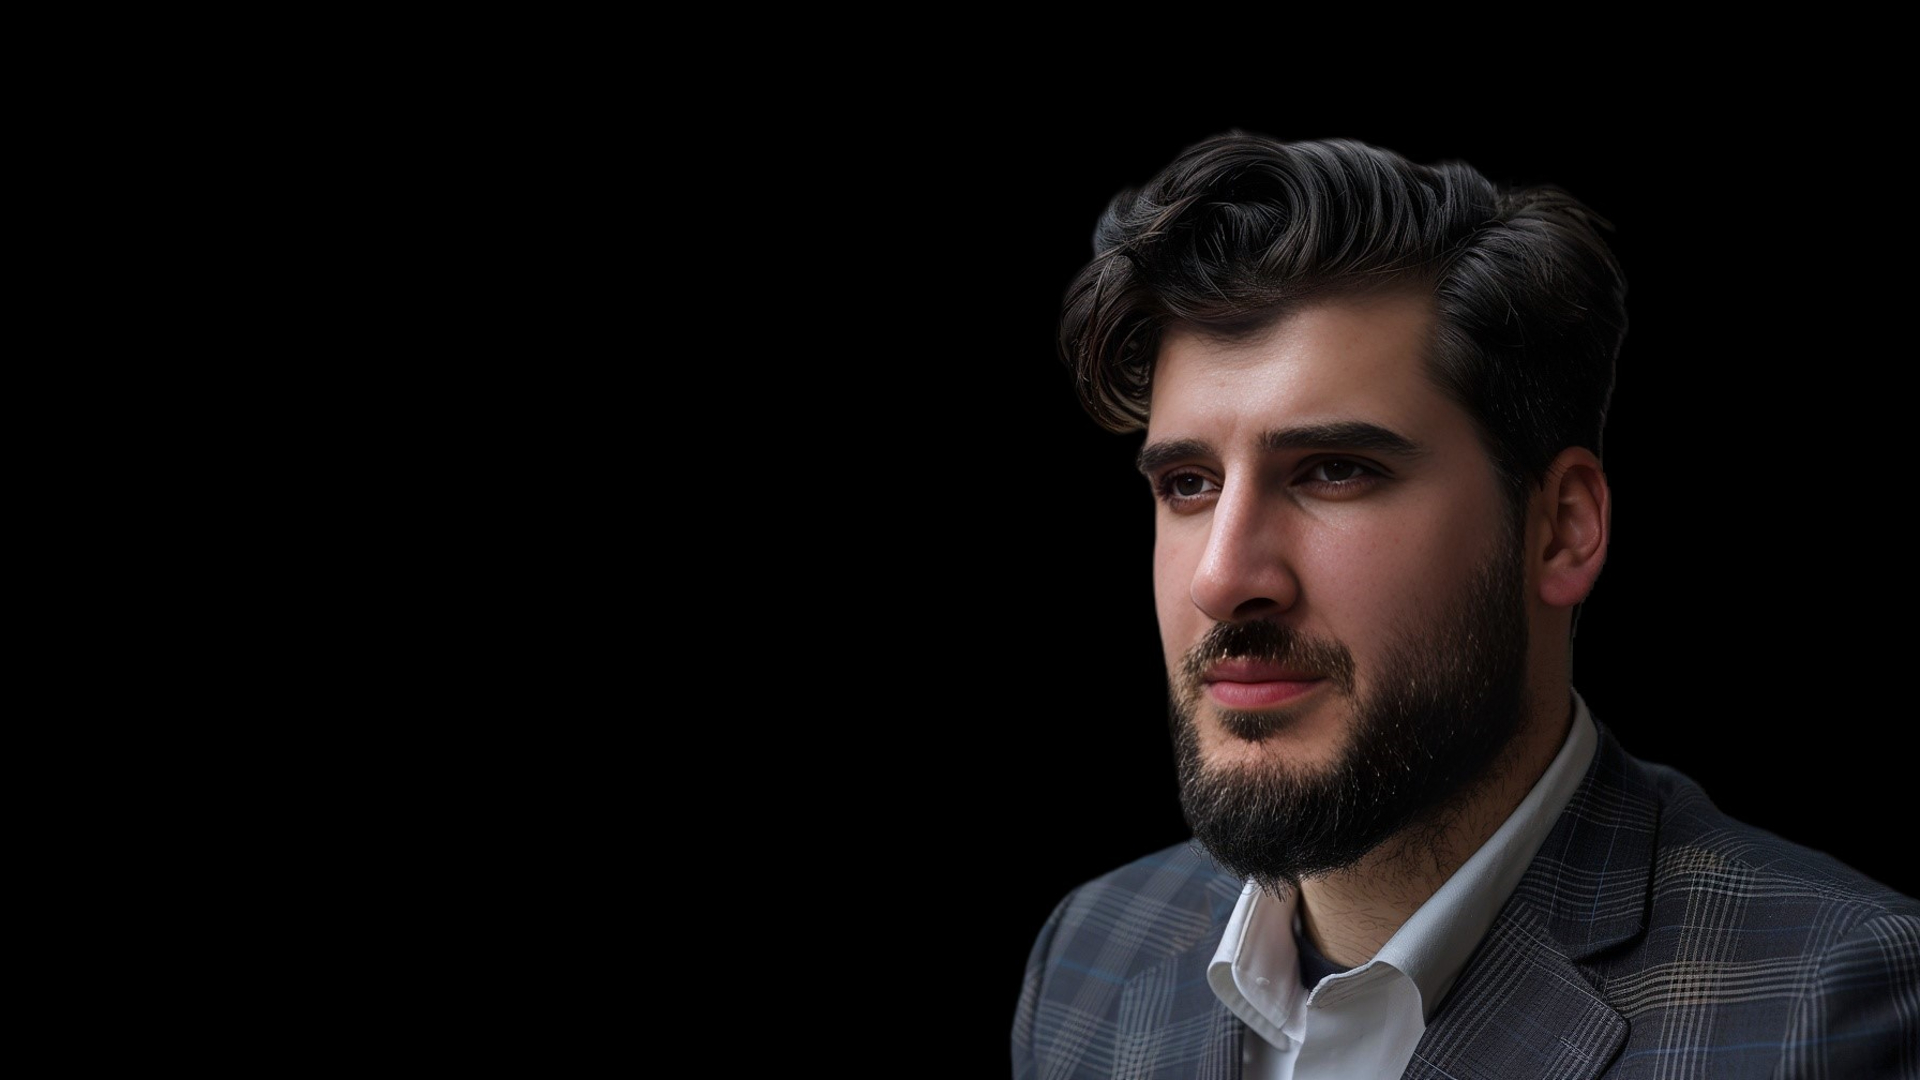
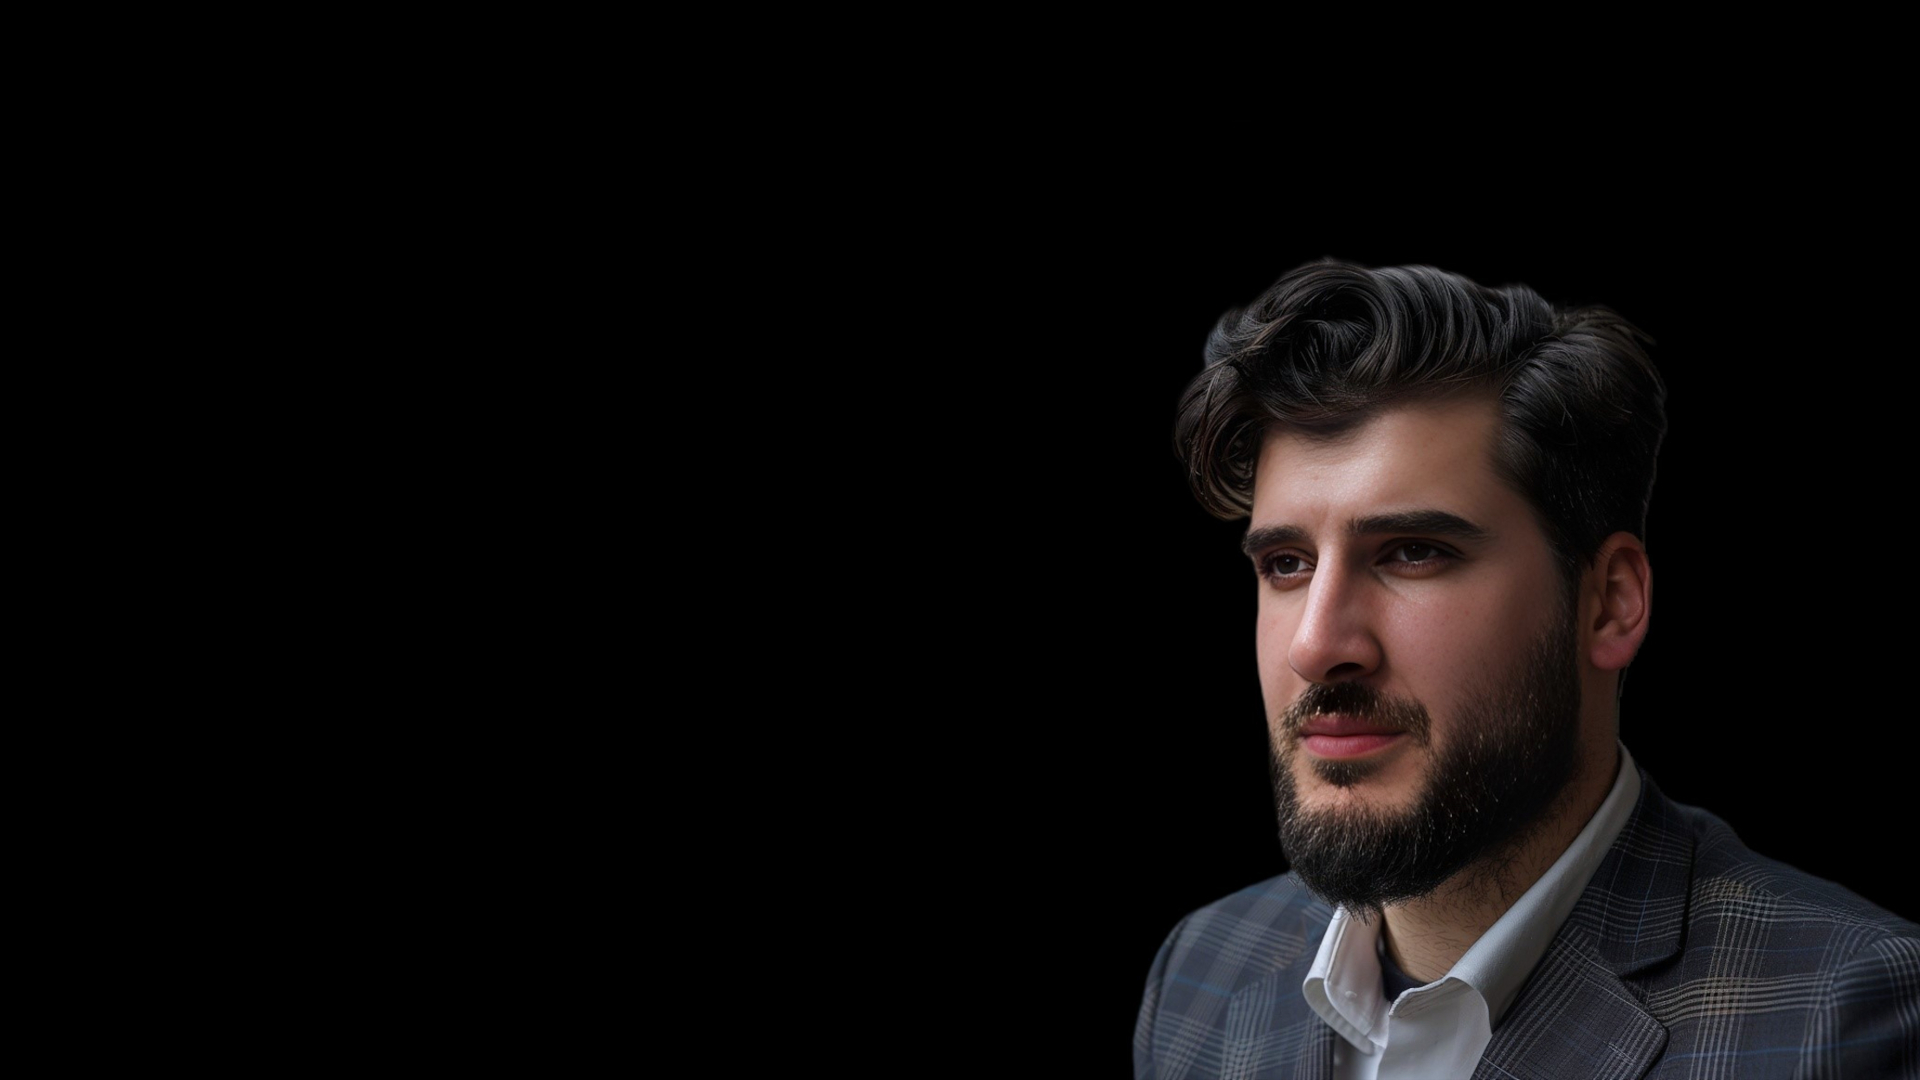
Adjust background image position and refine image for better header display

Changed region(s): [[0.5, 0.1222, 1.0, 1.0]]

diff --git a/style.css b/style.css
@@ -19,7 +19,7 @@ body {
     height: 100vh;
     background-image: url(images/background.jpg);
     background-size: cover;
-    background-position: center;
+    background-position: bottom center;
 }
 
 
